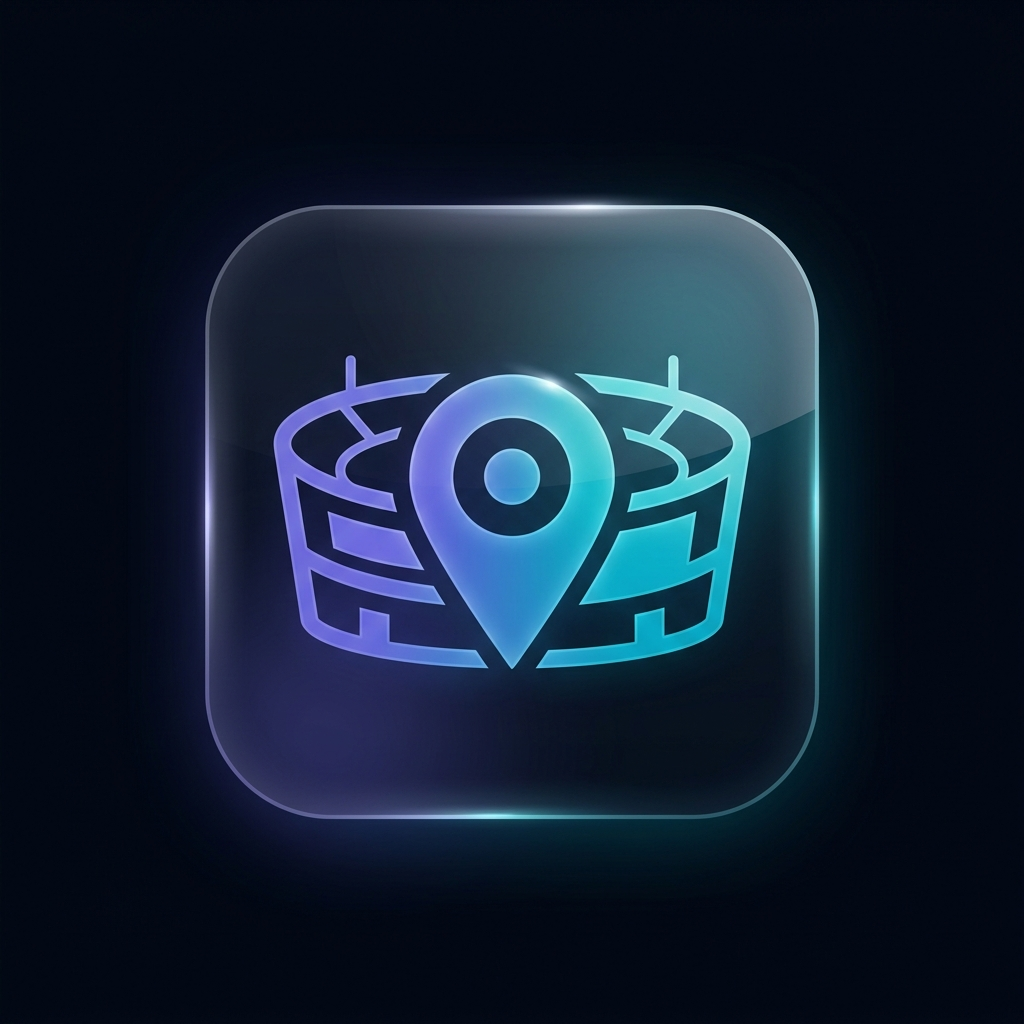
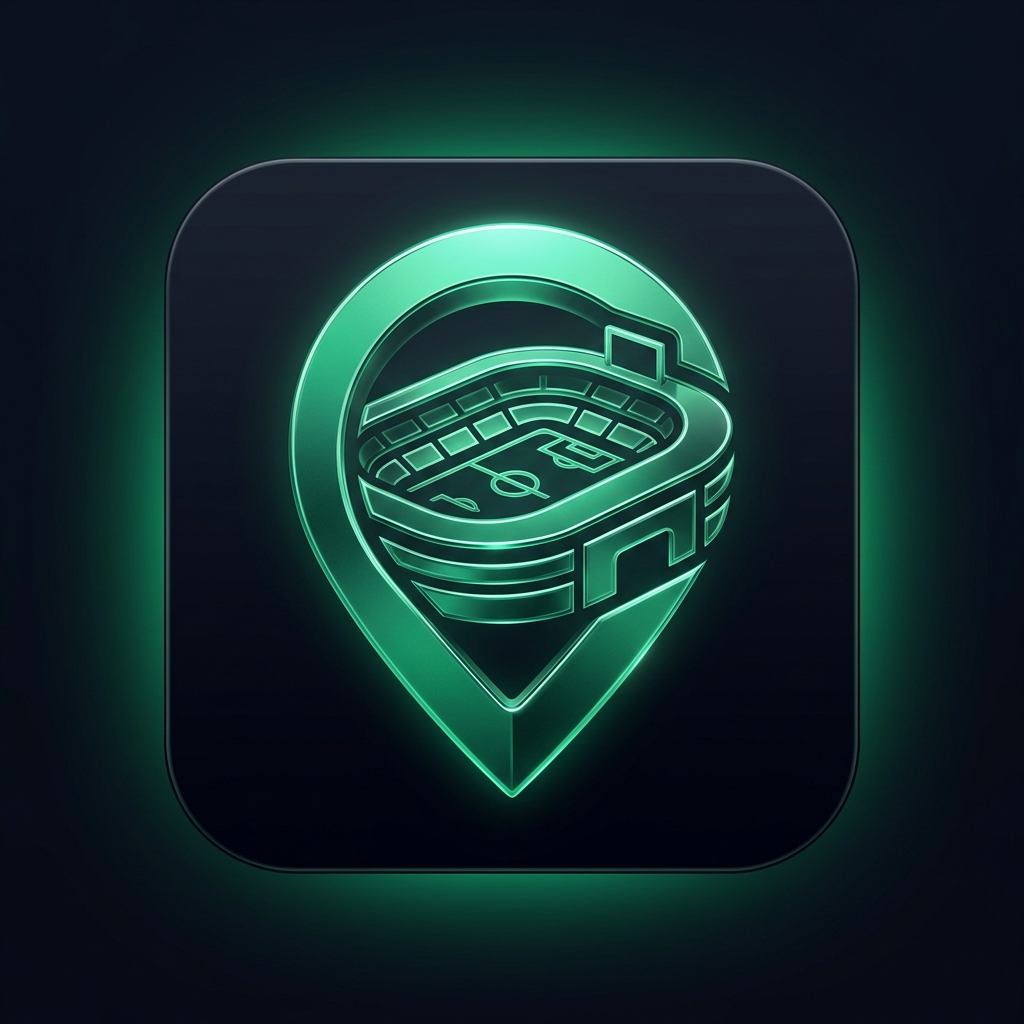
chore: update production URLs in meta tags and final branding sync

diff --git a/src/screens/MapScreen.jsx b/src/screens/MapScreen.jsx
@@ -11,55 +11,28 @@ import {
 import ZoneBottomSheet from '../components/ZoneBottomSheet';
 import { useAuth } from '../contexts/AuthContext';
 import { useStadium } from '../contexts/StadiumContext';
-
-// Helper to get status color for accessibility and visuals
-const getStatusColor = (level) => {
-  switch (level) {
-    case 'red': return '#ef4444';
-    case 'amber': return '#f59e0b';
-    case 'green': return '#10b981';
-    default: return '#10B981';
-  }
-};
+import VenIQLogo from '../components/VenIQLogo';
 
 // Memoized Marker Component for Performance (Efficiency) & Accessibility
-const MapMarker = memo(({ zone, color, onClick }) => {
-  const statusColor = getStatusColor(zone.level);
-  
-  return (
-    <div 
-      onClick={() => onClick(zone)} 
-      role="button"
-      aria-label={`${zone.name || zone.id}, Capacity: ${zone.level || 'Normal'}`}
-      style={{ 
-        position: 'absolute', top: `${zone.top}%`, left: `${zone.left}%`, 
-        transform: 'translate(-50%, -50%)', width: '24px', height: '24px', 
-        borderRadius: '50%', 
-        backgroundColor: color, 
-        border: `3px solid ${statusColor}`, // Synced with README status colors
-        boxShadow: `0 0 15px ${statusColor}`, 
-        cursor: 'pointer', zIndex: 20,
-        display: 'flex', alignItems: 'center', justifyContent: 'center',
-        transition: 'all 0.3s cubic-bezier(0.4, 0, 0.2, 1)'
-      }}
-    >
-      {/* Inner status dot */}
-      <div style={{ 
-        width: '6px', height: '6px', borderRadius: '50%', 
-        background: 'white', opacity: 0.8,
-        animation: 'pulse 1.5s infinite'
-      }} />
-      
-      {/* Outer pulsing status ring */}
-      <div style={{ 
-        position: 'absolute', top: -4, left: -4, right: -4, bottom: -4,
-        borderRadius: '50%', border: `1px solid ${statusColor}`,
-        animation: 'ping 2s cubic-bezier(0, 0, 0.2, 1) infinite',
-        opacity: 0.4
-      }} />
-    </div>
-  );
-});
+const MapMarker = memo(({ zone, color, onClick }) => (
+  <div 
+    onClick={() => onClick(zone)} 
+    role="button"
+    aria-label={`${zone.name || zone.id}, Capacity: ${zone.level || 'Normal'}`}
+    style={{ 
+      position: 'absolute', top: `${zone.top}%`, left: `${zone.left}%`, 
+      transform: 'translate(-50%, -50%)', width: '22px', height: '22px', 
+      borderRadius: '50%', backgroundColor: color, border: '2px solid white', 
+      boxShadow: `0 0 10px ${color}`, cursor: 'pointer', zIndex: 20 
+    }}
+  >
+    <div style={{ 
+      position: 'absolute', top: 0, left: 0, width: '100%', height: '100%', 
+      borderRadius: '50%', background: 'inherit', animation: 'fadeIn 1.5s infinite alternate', 
+      opacity: 0.5 
+    }} />
+  </div>
+));
 
 export default function MapScreen() {
   const { user, logout } = useAuth();
@@ -170,6 +143,7 @@ export default function MapScreen() {
       {/* Arena Scoreboard Header */}
       <div style={{ margin: 'calc(env(safe-area-inset-top, 0px) + 8px) 12px 0 12px', zIndex: 100, display: 'flex', justifyContent: 'space-between', alignItems: 'center', padding: '12px 18px', background: 'var(--bg-dark)', border: '2px solid rgba(16, 185, 129, 0.4)', borderRightWidth: '8px', boxShadow: '10px 10px 0 rgba(16, 185, 129, 0.1)', position: 'relative' }}>
         <div style={{ display: 'flex', alignItems: 'center', gap: '16px' }}>
+          <VenIQLogo size={28} />
           {/* Profile Trigger */}
           <div 
             ref={profileRef}

diff --git a/index.html b/index.html
@@ -16,14 +16,14 @@
 
     <!-- Open Graph / Facebook -->
     <meta property="og:type" content="website" />
-    <meta property="og:url" content="https://github.com/Bhaveshk46/VenIQ" />
+    <meta property="og:url" content="https://veniq-792113099008.asia-south2.run.app" />
     <meta property="og:title" content="VenIQ — Intelligent Stadium Concierge" />
     <meta property="og:description" content="Experience the future of stadium attendance. AI-powered navigation and concierge services for the modern fan." />
     <meta property="og:image" content="/emerald_map.png" />
 
     <!-- Twitter -->
     <meta property="twitter:card" content="summary_large_image" />
-    <meta property="twitter:url" content="https://github.com/Bhaveshk46/VenIQ" />
+    <meta property="twitter:url" content="https://veniq-792113099008.asia-south2.run.app" />
     <meta property="twitter:title" content="VenIQ — Intelligent Stadium Concierge" />
     <meta property="twitter:description" content="Experience the future of stadium attendance. AI-powered navigation and concierge services for the modern fan." />
     <meta property="twitter:image" content="/emerald_map.png" />

diff --git a/README.md b/README.md
@@ -24,7 +24,7 @@ VenIQ is a premium, mobile-first AI concierge designed to revolutionize the fan 
 
 | Feature | Technology | Logic |
 | :--- | :--- | :--- |
-| **Interactive Map** | React + Firebase | Live crowd levels are streamed from Firebase RDB to the map markers, changing colors (Green/Yellow/Red) in real-time based on simulation workers. |
+| **Interactive Map** | React + Firebase | Dynamic markers with premium glowing aesthetics. Live crowd levels are streamed from Firebase RDB to provide "Smart Occupancy" insights in the detail panels. |
 | **Travel Planner** | Google Maps JS | Uses **Places Autocomplete** to find the user's home, **Geocoding** to calculate distance, and **Directions API** to provide live travel times and private transport estimates. |
 | **AI Wayfinding** | Gemini 2.0 Flash | Generates rich, narrative walking instructions dynamically based on the 15+ venue zones, with a deterministic heuristic fallback for reliability. |
 | **Concierge Chat** | Gemini 2.0 Flash | A stateful AI assistant that helps with snack locations, restroom finding, and emergency procedures using a comprehensive "Stadium Lore" system instruction. |
